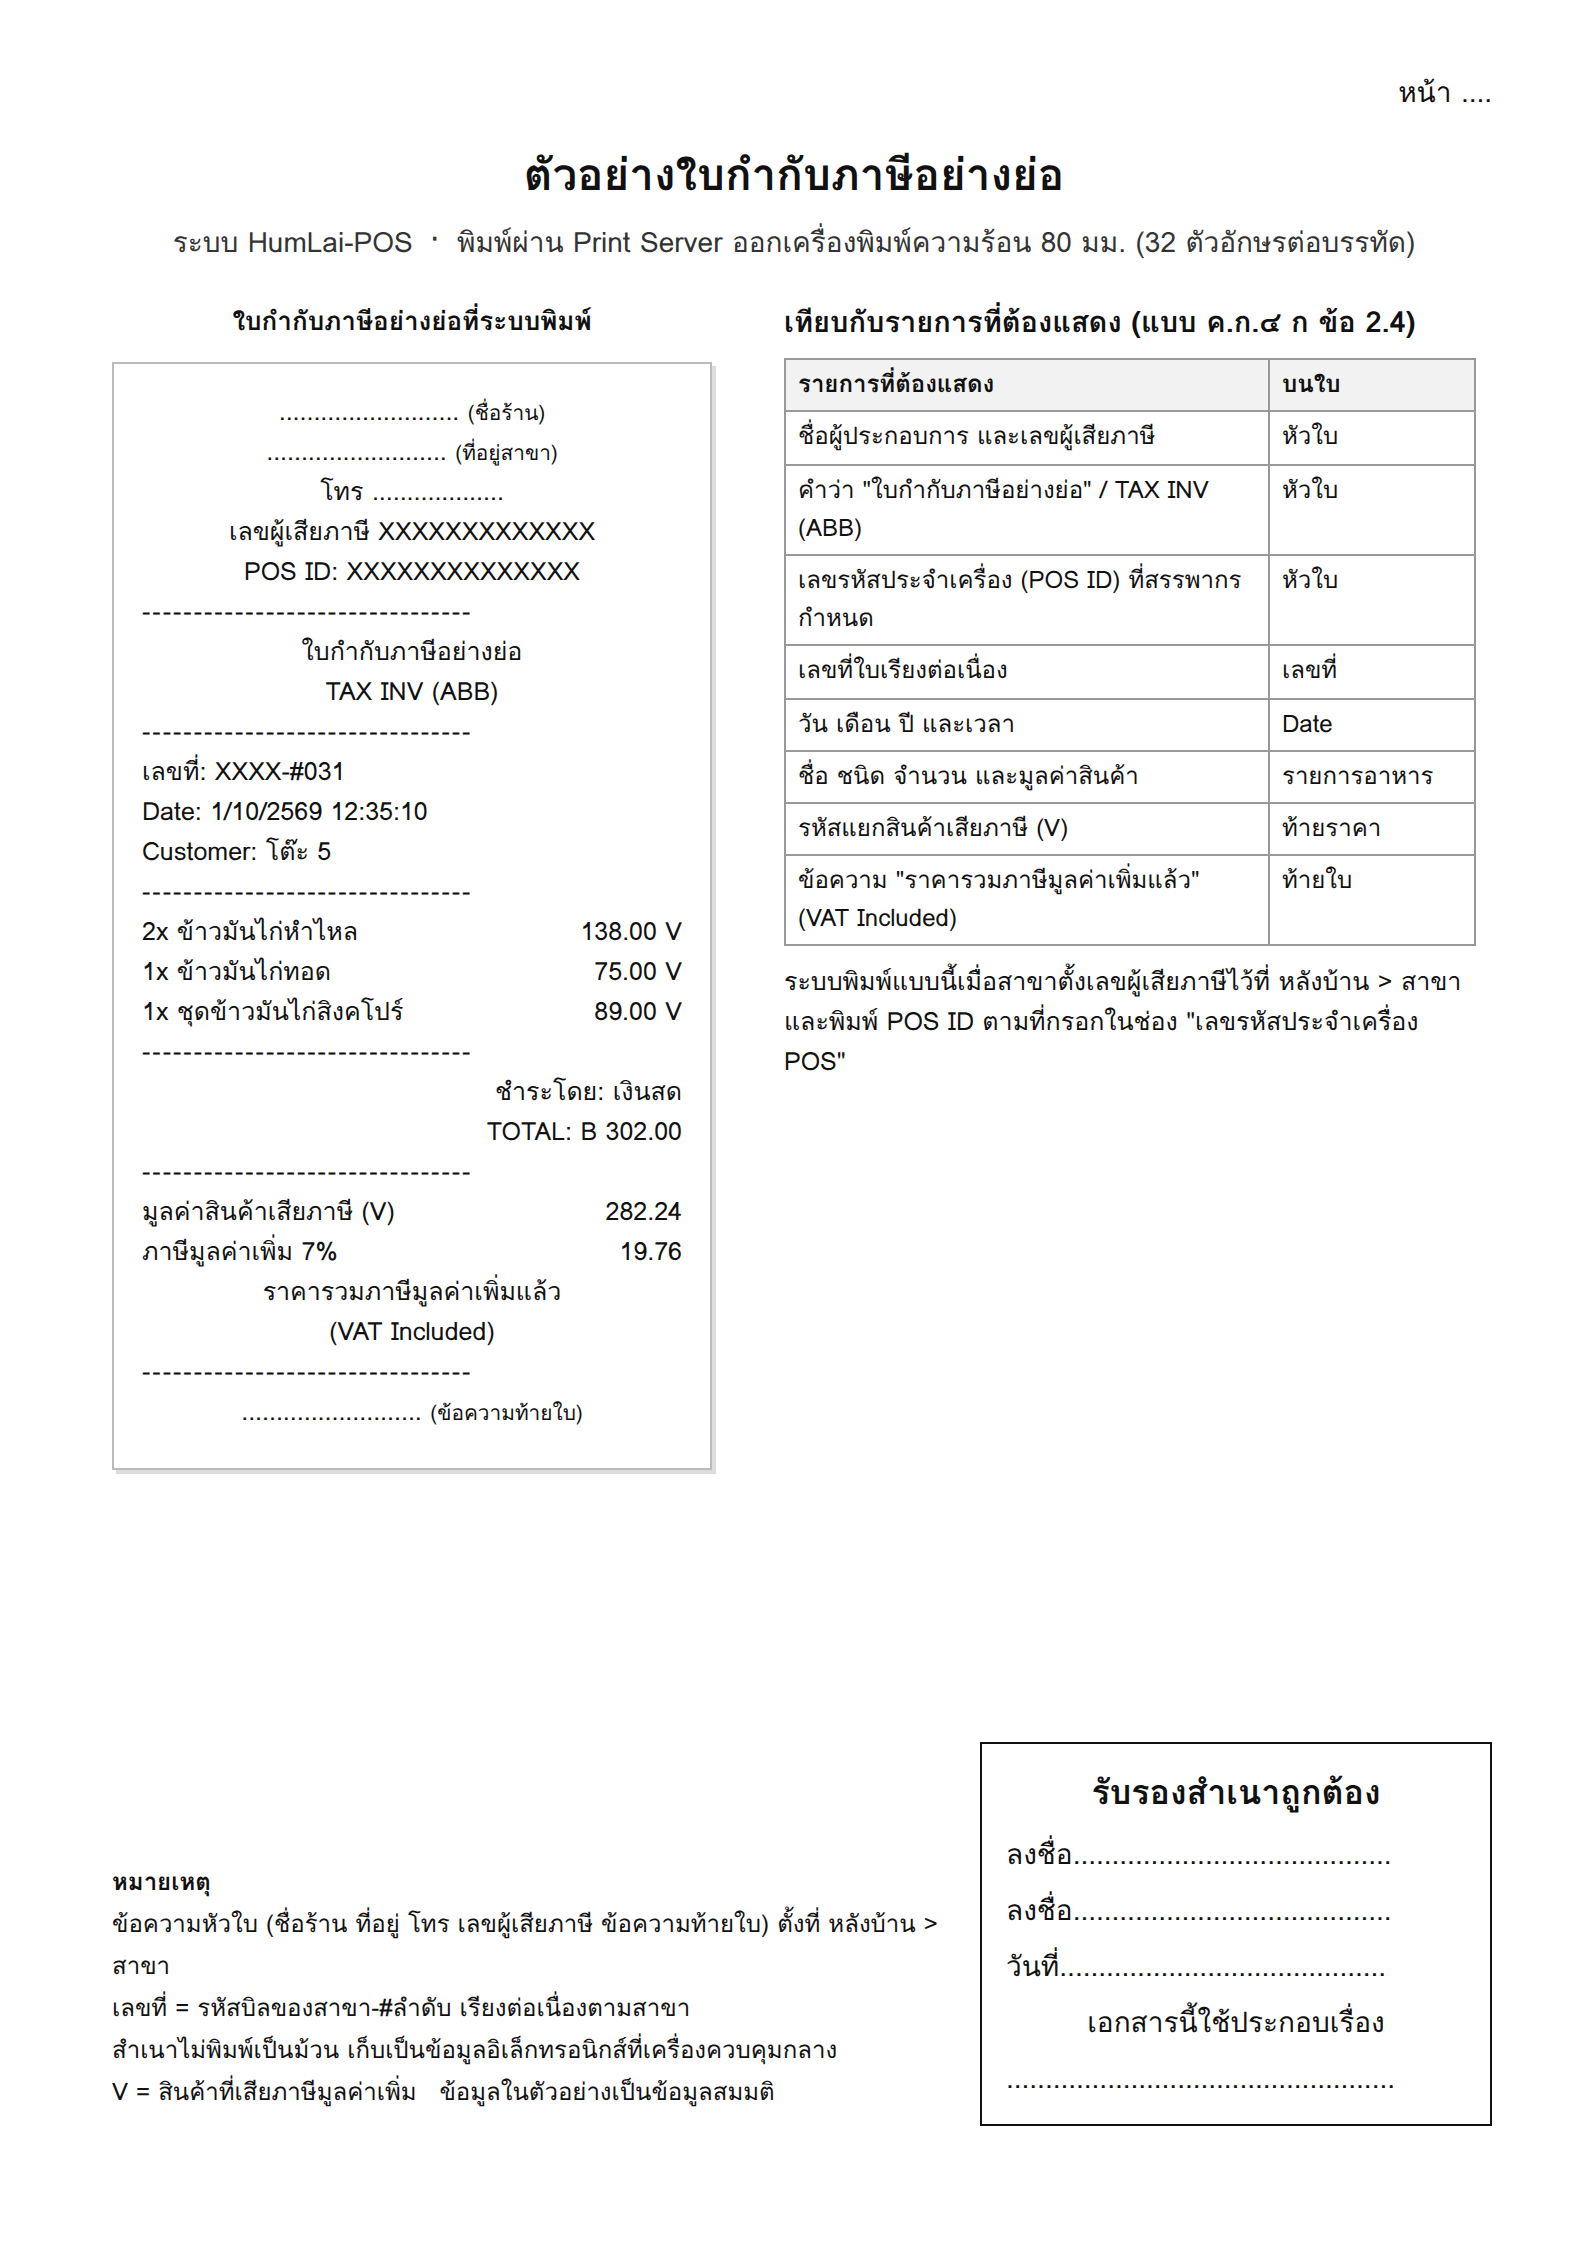
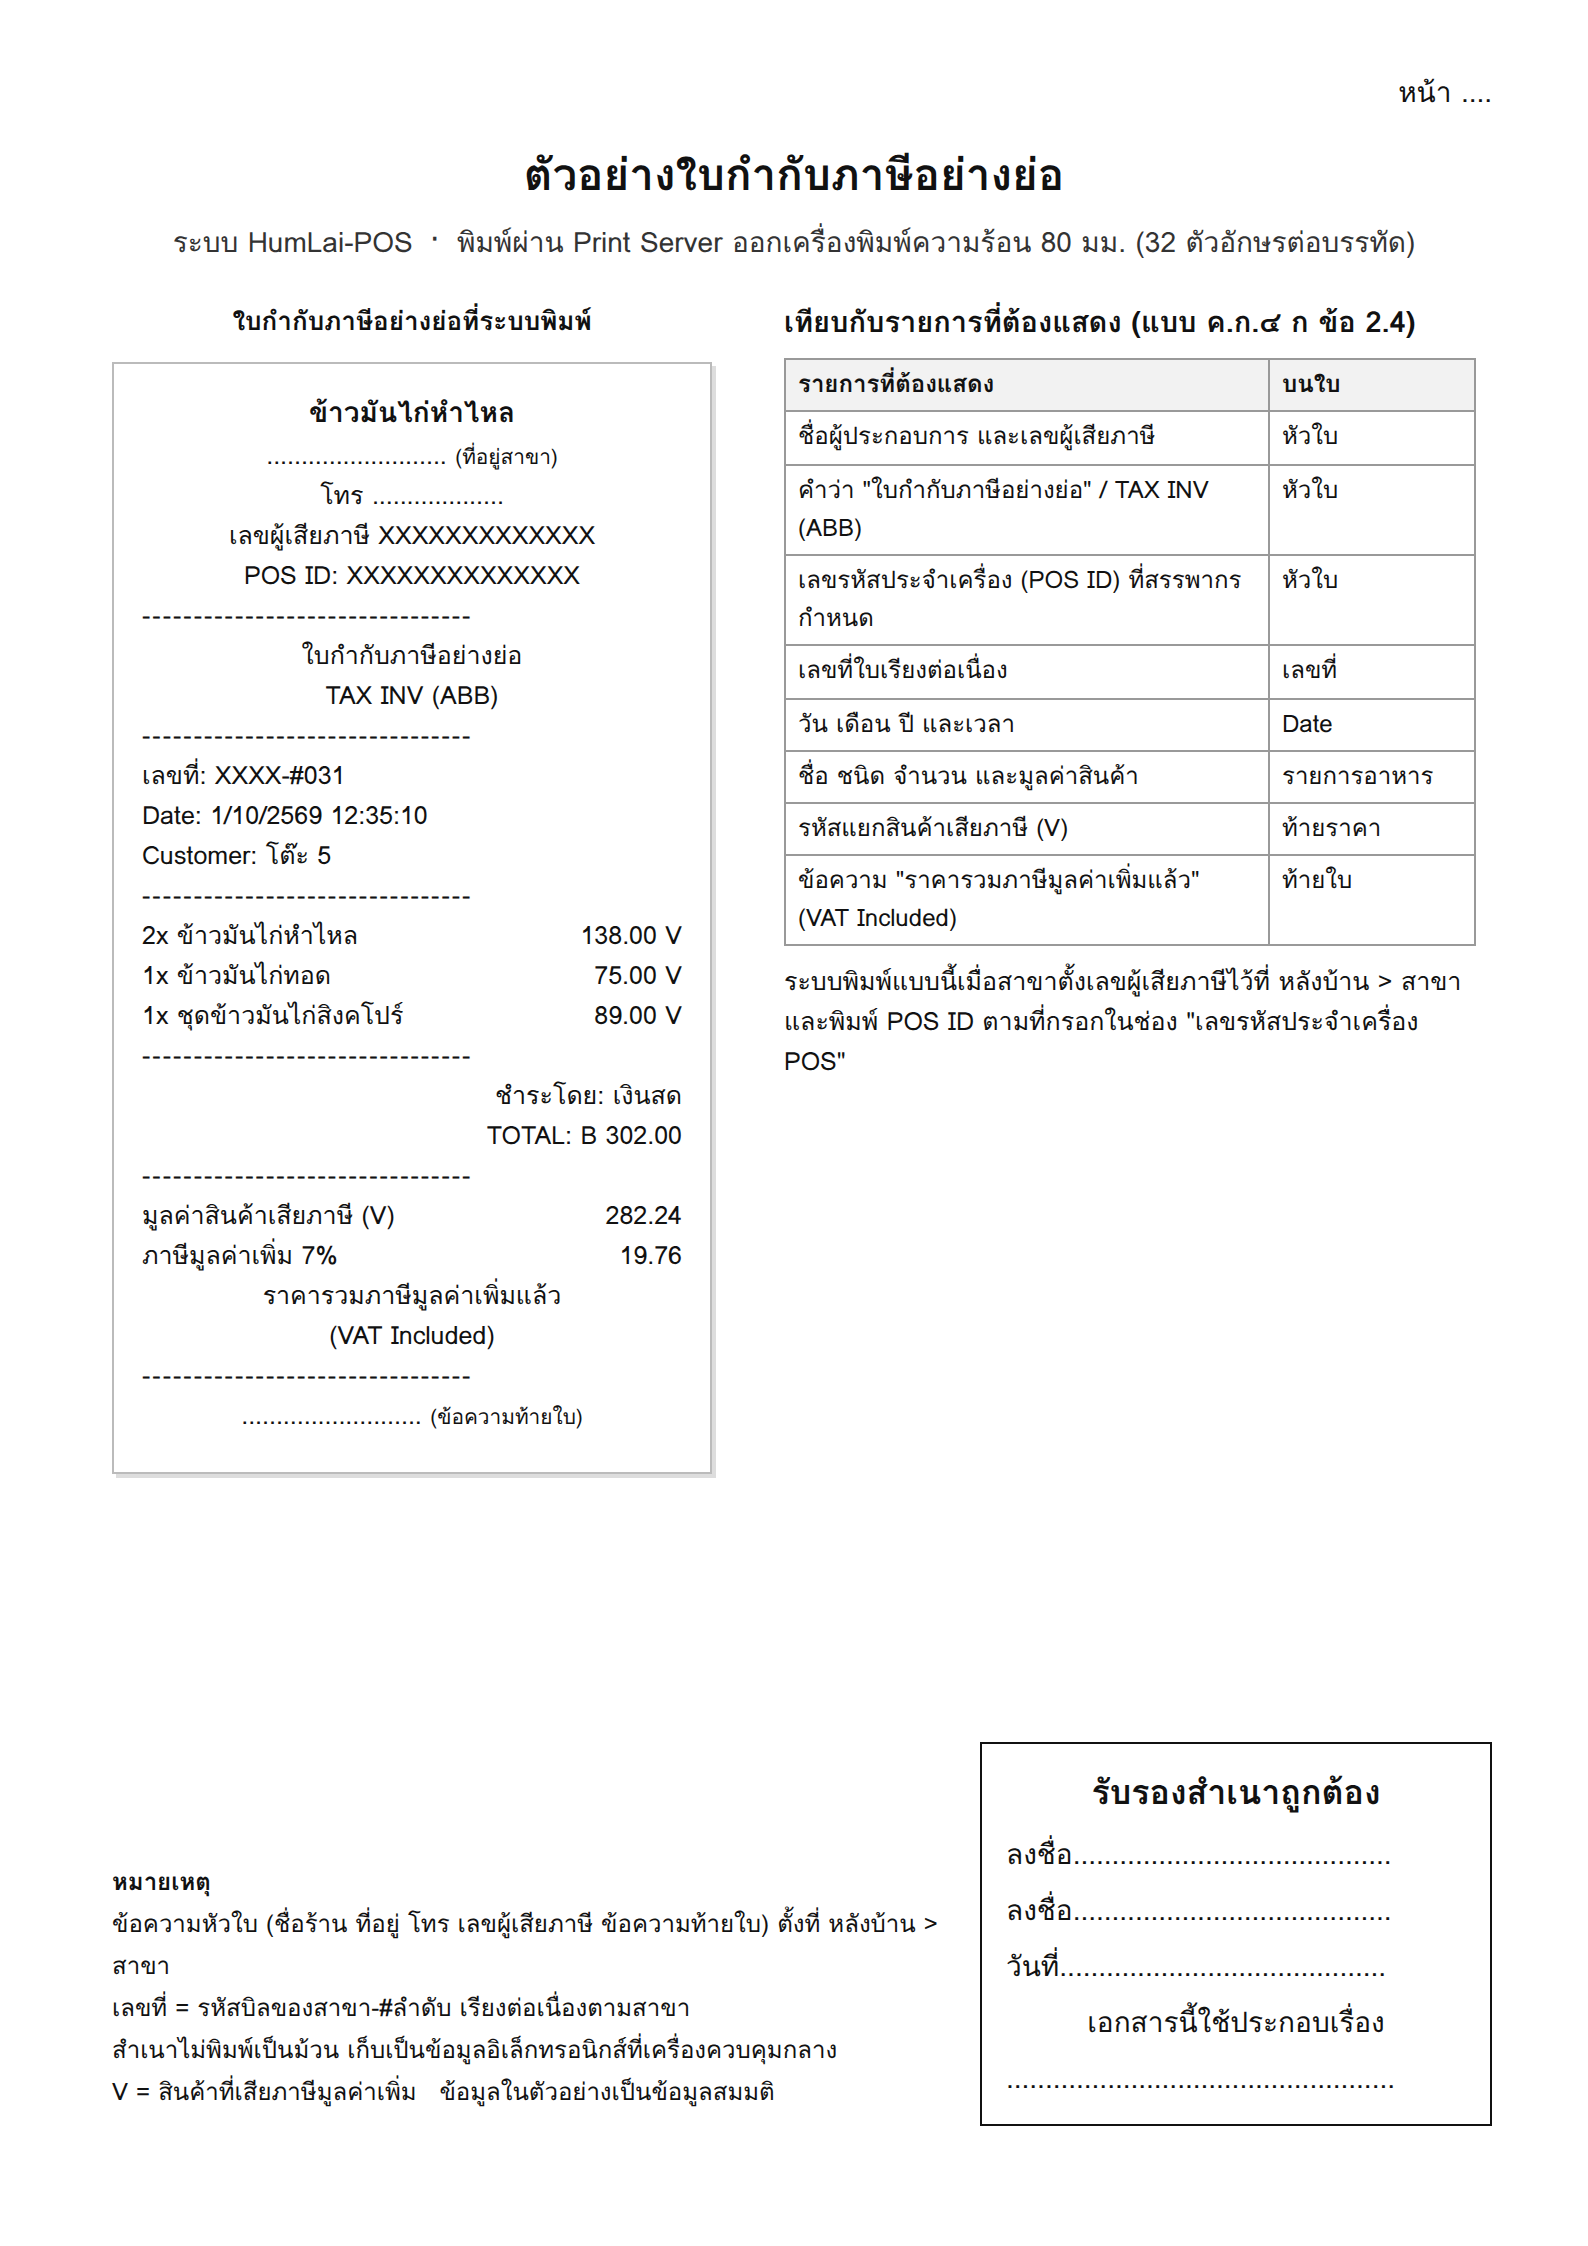
docs: หน้า 6 ใส่ชื่อร้านบนใบกำกับภาษีอย่างย่อ
Claude-Session: https://claude.ai/code/session_01VQ4Mtjw4DYg2T1hjZxri2n

Changed region(s): [[0.0926, 0.1558, 0.3703, 0.4675], [0.0926, 0.5298, 0.432, 0.6857], [0.3086, 0.4052, 0.432, 0.561]]

diff --git a/docs/revenue-pp06/p06-abb-receipt.html b/docs/revenue-pp06/p06-abb-receipt.html
@@ -76,7 +76,7 @@ const dash = '<div class="hr">' + '-'.repeat(32) + '</div>';
 const total = subtotal;                                     // ยอดบิล (รวม VAT แล้ว)
 const vatable = Math.round(total * 100 / (100 + vatRate) * 100) / 100;
 document.getElementById('slip').innerHTML = `
-  <div class="c">.......................... <small>(ชื่อร้าน)</small></div>
+  <div class="c" style="font-weight:700;font-size:14px">ข้าวมันไก่หำไหล</div>
   <div class="c">.......................... <small>(ที่อยู่สาขา)</small></div>
   <div class="c">โทร ...................</div>
   <div class="c">เลขผู้เสียภาษี XXXXXXXXXXXXX</div>
